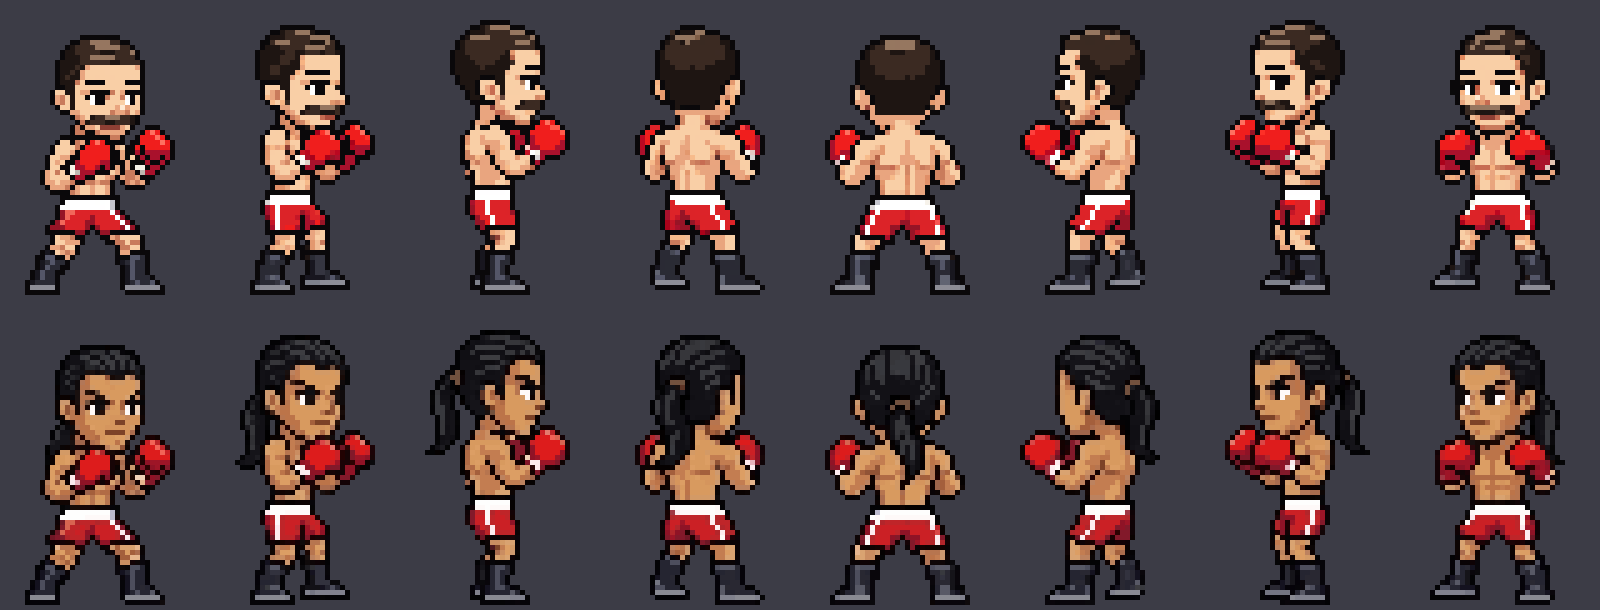
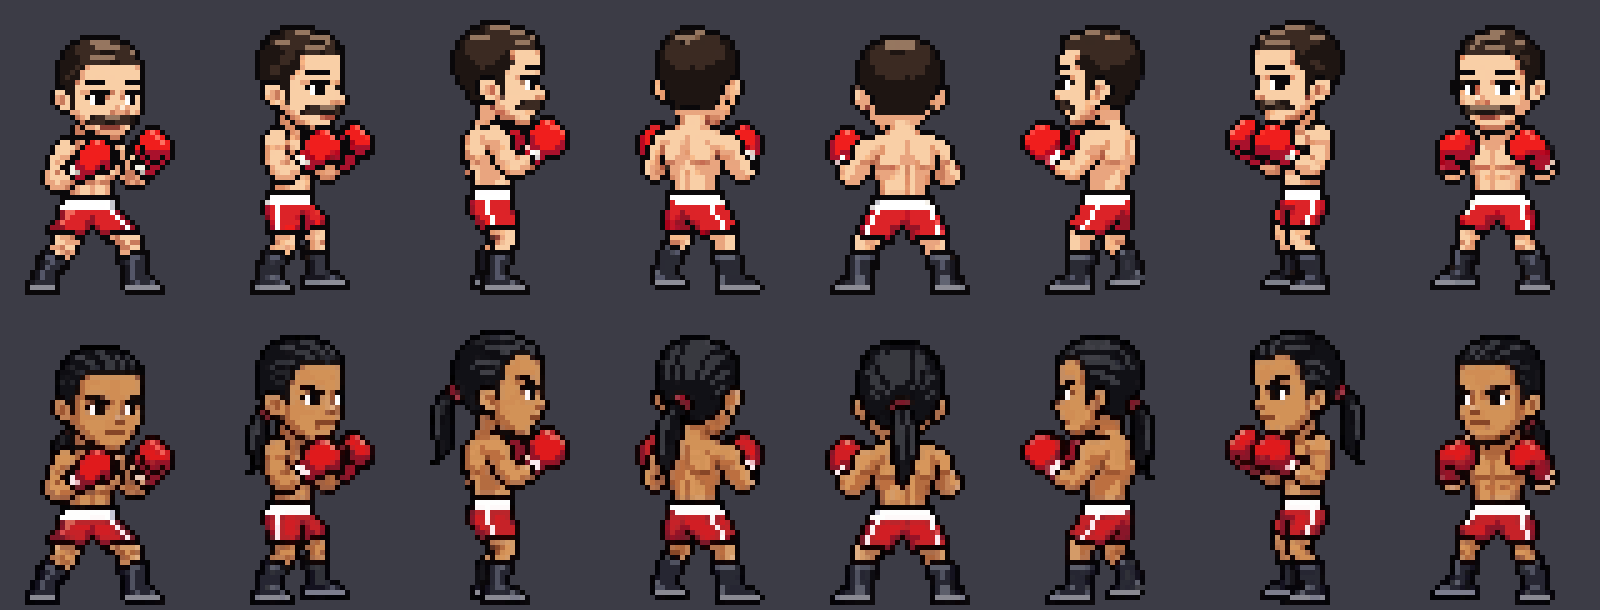
Cabeças: n.º 15 aceite a olho; design: fica a nossa guarda a saltitar
Claude-Session: https://claude.ai/code/session_01KDZthyf9r1UXjaFXmiFsU3

diff --git a/docs/design.md b/docs/design.md
@@ -157,7 +157,7 @@ Estados usados: **Em aberto** (a discutir) · **Decidido** (pronto a implementar
 - **PixelLab (pixellab.ai) em avaliação:** é a melhor ferramenta encontrada para rodar e animar (8 direções, animações prontas de boxe, animação por esqueleto com poses nossas). Teste a partir das nossas imagens (vista de frente + desenho 3/4) manteve o estilo e a cara. Pesquisa completa em `docs/pesquisa-pixellab.md`. Por decidir: assinatura, quantas direções são precisas no ringue (2–4 ou 8 — o Tiago quer os pugilistas a andar à volta um do outro), peças trocáveis por cor no código vs reanimar.
 - **Personagens com a PixelLab (direção do Tiago, nov 2026):** tamanho **40×60**. O desenho 3/4 dado como frente funciona (as 8 vistas saem rodadas 45° e coerentes). **Um só corpo** para todos: o «corpo f» (GIF 6, de bigode), importado na PixelLab. Colar cabeças de outros GIFs à mão no mesmo corpo ficou sempre mal (pescoços e ombros diferentes) — **as cabeças fazem-se com a PixelLab a editar o corpo f** (`create_character_state`: muda só a cabeça e a pele, mantém corpo, pose, calções, botas e luvas; ~10 gerações; as variantes herdam o esqueleto para as animações). Meta: **40 cabeças**, todos jovens (~20 anos; envelhecem no jogo), portugueses do Norte e do Sul, europeus e resto do mundo. Lista, script e resultados em `arte/cabecas-pixellab/` (uma variante a cada ~2 dias com as gerações grátis). **Calções e botas pintam-se no código** (troca de paleta); luvas seguem o canto (vermelho/azul). A guarda ortodoxa verifica-se direção a direção (o espelho dá um canhoto — útil para o tema 7).
 - **Cenários em 2.5D (direção do Tiago, decidir melhor mais tarde):** inspirado no Pocket Basketball de um amigo (github.com/Guybota/Pocket-Basketball: cenário 3D na placa gráfica com three.js e bonecos em pixel art como cartões no mundo, luz tipo Super Punch-Out — ringue claro, público às escuras). **O Tiago autorizou usar dependências externas (ex.: three.js).** Não começar sem ele pedir.
-- **Ideia do Tiago para os cenários (nov 2026, em descrição):** várias arenas que melhoram com o nível (mais público, maiores, mais luz). Túneis/entradas de cada lado; os atletas saem do túnel e passam pelo meio dos fãs até ao ringue, com as luzes a apagar, um foco no atleta e os fãs a aplaudir. **Câmara de televisão:** aponta ao túnel e aproxima-se do atleta até ele entrar no ringue → plano geral (ringue, fãs) → entrada do outro → plano geral (talvez um apresentador) → na luta aproxima-se e foca o ringue. Ver as mesas dos juízes, o árbitro, etc. **Ordem de entrada: a regra do boxe** (entra primeiro o desafiante/visitante, por último o campeão/da casa). Sugestão a confirmar: entrada completa nas lutas importantes, curta/saltável nas outras. A entrada atual em 2D passa a ser esta. Precisa da animação de andar normal (decisão em aberto: feita à mão ou PixelLab sobre o corpo f). Pesquisa sobre transmissões de boxe em `docs/pesquisa-transmissao-boxe.md`. **Deslocar no ringue (nov 2026):** a saltitar (a guarda aprovada + corpo a dobrar pela cintura para o lado para onde vai + perna de trás a aterrar depois), 4 direções em relação ao adversário (frente, trás, esquerda, direita; as diagonais usam a mais parecida), 8 vistas × 12 fotogramas (`arte/animacao/deslocar.py`). O passo arrastado (`andar.py`) não agradou: voltar a ele mais tarde. Distâncias de teste (centro a centro): fora de alcance 1,2 m, longe 0,95 m, meio 0,85 m, perto 0,75 m. **Por decidir (lembrar o Tiago):** a distância **fora de alcance** (nenhum chega ao outro, nem com o jab) está só no teste visual; falta decidir se entra nas regras da luta como 4.ª distância (mexe no sistema de 3 distâncias: `F.dist`, `DIST_FIT`, `pesEff`, estilos) ou se fica só como momento da animação (afastam-se depois de uma troca ou de uma queda). **Decisões (nov 2026):** o **nosso canto fica sempre do nosso lado** (à frente à esquerda) e o do adversário do lado de lá — durante a luta os pugilistas andam por todo o ringue —, mas a **cor do canto segue a regra real** (vermelho ou azul conforme a luta) — muda a convenção antiga "vermelho = o teu canto": as cores do placard, luvas e balões passam a seguir a cor do canto de cada luta. Sem título, entra primeiro o pior no ranking (no amador, o canto azul). **Ring girls** só nas lutas importantes e com muito público (desenho discreto, roupa de evento, placa do round). **Prioridade da câmara: ver bem os bonecos durante a luta** — começa-se pelo plano da luta (arena do Amador), só depois entradas, túnel e apresentador.
+- **Ideia do Tiago para os cenários (nov 2026, em descrição):** várias arenas que melhoram com o nível (mais público, maiores, mais luz). Túneis/entradas de cada lado; os atletas saem do túnel e passam pelo meio dos fãs até ao ringue, com as luzes a apagar, um foco no atleta e os fãs a aplaudir. **Câmara de televisão:** aponta ao túnel e aproxima-se do atleta até ele entrar no ringue → plano geral (ringue, fãs) → entrada do outro → plano geral (talvez um apresentador) → na luta aproxima-se e foca o ringue. Ver as mesas dos juízes, o árbitro, etc. **Ordem de entrada: a regra do boxe** (entra primeiro o desafiante/visitante, por último o campeão/da casa). Sugestão a confirmar: entrada completa nas lutas importantes, curta/saltável nas outras. A entrada atual em 2D passa a ser esta. Precisa da animação de andar normal (decisão em aberto: feita à mão ou PixelLab sobre o corpo f). Pesquisa sobre transmissões de boxe em `docs/pesquisa-transmissao-boxe.md`. **Deslocar no ringue (nov 2026):** a saltitar (a guarda aprovada + corpo a dobrar pela cintura para o lado para onde vai + perna de trás a aterrar depois), 4 direções em relação ao adversário (frente, trás, esquerda, direita; as diagonais usam a mais parecida), 8 vistas × 12 fotogramas (`arte/animacao/deslocar.py`). O passo arrastado (`andar.py`) não agradou: voltar a ele mais tarde. **Guarda (nov 2026):** fica a nossa guarda a saltitar (`guarda.py`, píxel a píxel); as tentativas da PixelLab (esqueleto e texto) não faziam bicos dos pés e pareciam andar no sítio. **Jab:** feito pela PixelLab por esqueleto (`arte/animacao/pixellab-jab/`, `jab_vistas.py`), com o golpe virado para onde o boneco olha em cada vista; versões escolhidas pelo Tiago em `estado.json`. Distâncias de teste (centro a centro): fora de alcance 1,2 m, longe 0,95 m, meio 0,85 m, perto 0,75 m. **Por decidir (lembrar o Tiago):** a distância **fora de alcance** (nenhum chega ao outro, nem com o jab) está só no teste visual; falta decidir se entra nas regras da luta como 4.ª distância (mexe no sistema de 3 distâncias: `F.dist`, `DIST_FIT`, `pesEff`, estilos) ou se fica só como momento da animação (afastam-se depois de uma troca ou de uma queda). **Decisões (nov 2026):** o **nosso canto fica sempre do nosso lado** (à frente à esquerda) e o do adversário do lado de lá — durante a luta os pugilistas andam por todo o ringue —, mas a **cor do canto segue a regra real** (vermelho ou azul conforme a luta) — muda a convenção antiga "vermelho = o teu canto": as cores do placard, luvas e balões passam a seguir a cor do canto de cada luta. Sem título, entra primeiro o pior no ranking (no amador, o canto azul). **Ring girls** só nas lutas importantes e com muito público (desenho discreto, roupa de evento, placa do round). **Prioridade da câmara: ver bem os bonecos durante a luta** — começa-se pelo plano da luta (arena do Amador), só depois entradas, túnel e apresentador.
 
 ## Como trabalhamos
 
